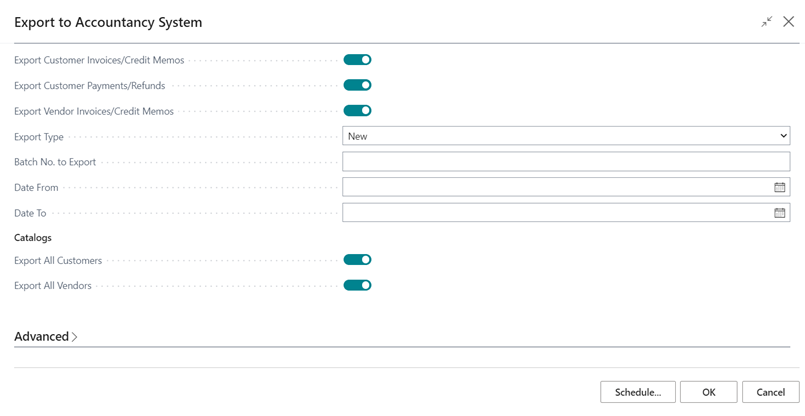
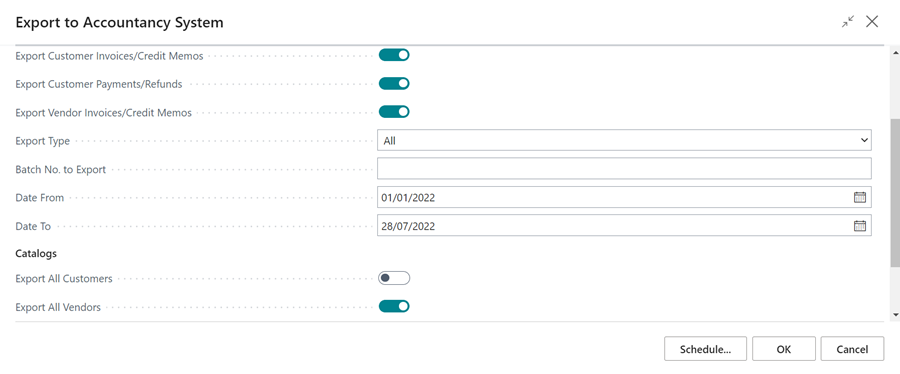
docs update

diff --git a/docs/garagehive-finance-accountancy-export.md b/docs/garagehive-finance-accountancy-export.md
@@ -34,7 +34,7 @@ To create an export, first confirm that your setup is complete; please contact a
 
 3. **Catalogs** options:
 
-   * **Export All Customers** - This will produce an export of every single customer in the system.
+   * **Export All Customers** - This slider should always be off.
    * **Export All Vendors** - This will produce an export of every single vendor in the system.
 
    ![](media/garagehive-accountancy-export2.png)

diff --git a/docs/garagehive-setting-card-terminals-into-integration-mode.md b/docs/garagehive-setting-card-terminals-into-integration-mode.md
@@ -1,6 +1,6 @@
 ---
 layout: docs
-title: How to Set Card Terminal Into Integration Mode
+title: How to Set Card Terminals Into Integration Mode
 ---
 
 ### Dojo A920 Card Terminal
